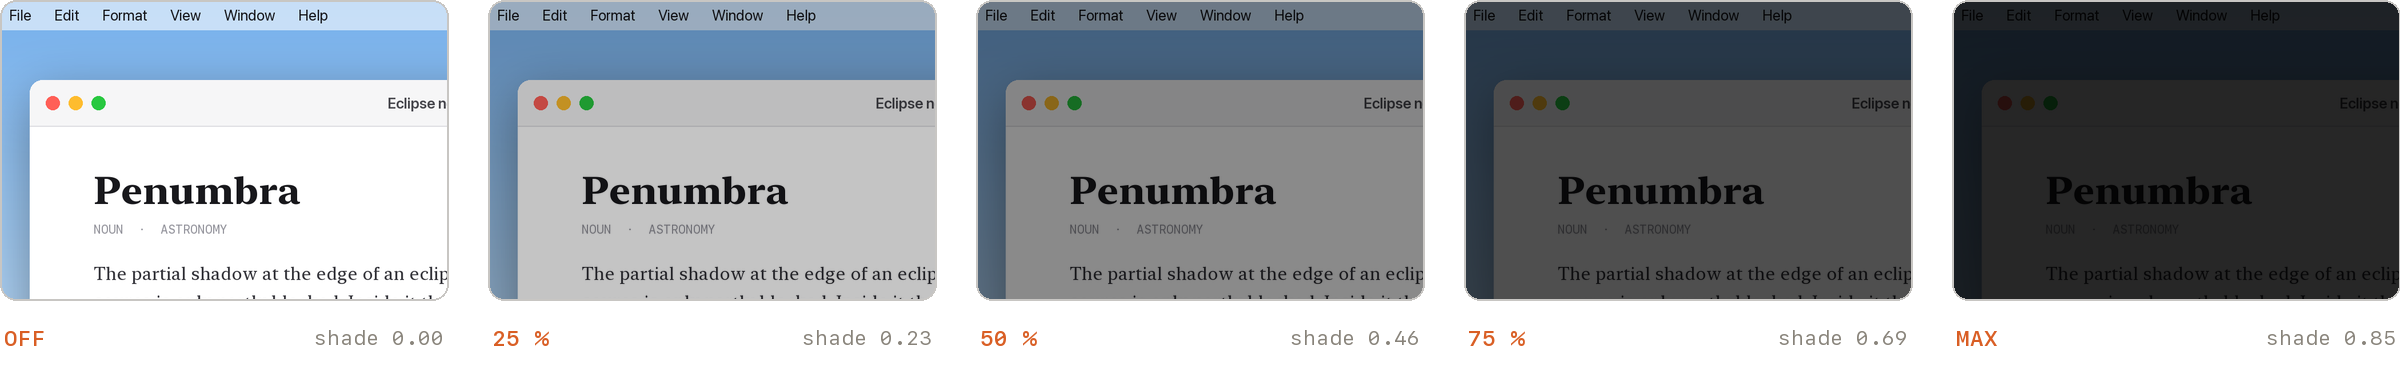
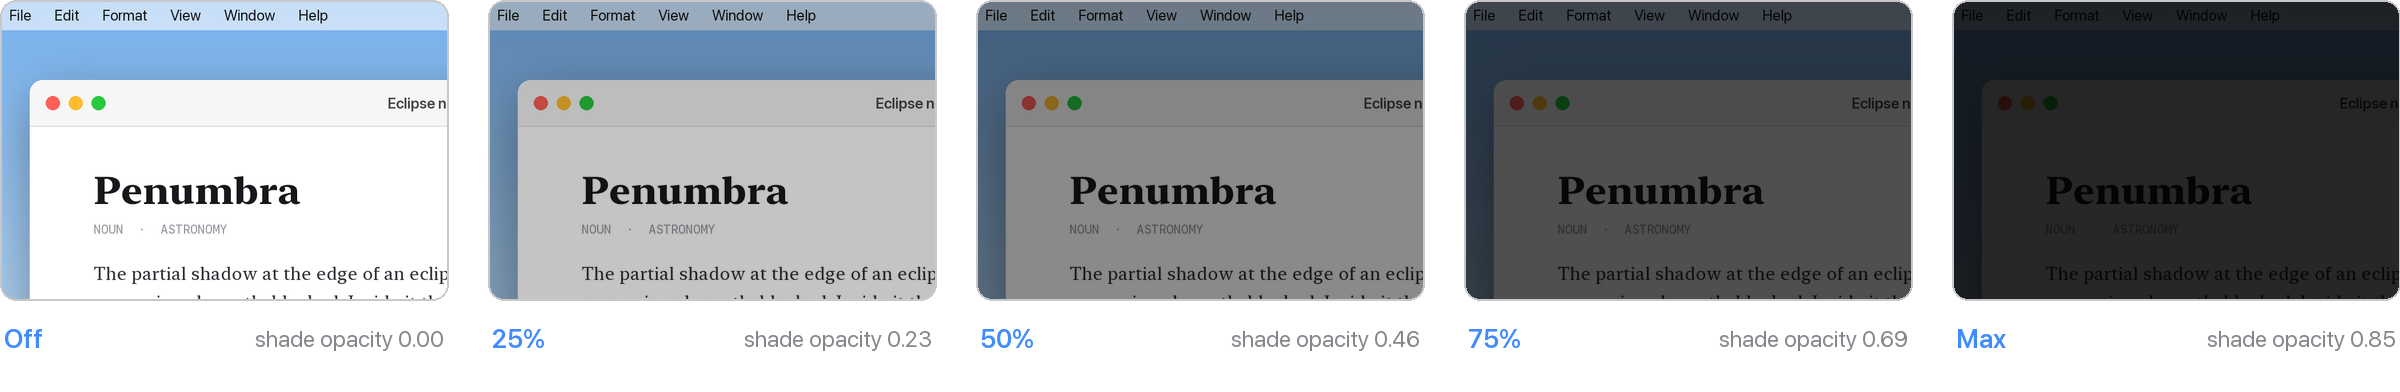
Drop the header band; diagram, labels and social preview in the app's own colours

diff --git a/tools/render_stack.py b/tools/render_stack.py
@@ -4,8 +4,9 @@ render_stack.py - the window-level diagram in the README's "How it works".
 
 Draws the macOS window stack as stacked planes, with the levels as AppKit and
 CoreGraphics define them, and shows where Penumbra's two windows sit in it. One
-light and one dark SVG, chosen by prefers-color-scheme through <picture>. Same
-palette and type as the header band. No script, no web fonts, no external refs.
+light and one dark SVG, chosen by prefers-color-scheme through <picture>, in the
+app's own colours: neutral greys and the system blue of the control window. No
+script, no web fonts, no external refs.
 
 Usage: python3 tools/render_stack.py      (writes docs/stack-{light,dark}.svg)
 """
@@ -13,14 +14,14 @@ Usage: python3 tools/render_stack.py      (writes docs/stack-{light,dark}.svg)
 from pathlib import Path
 
 W, H = 860, 380
-MONO = ('font-family="ui-monospace,SFMono-Regular,SF Mono,Menlo,'
-        'Consolas,monospace"')
+SANS = ('font-family="-apple-system,BlinkMacSystemFont,Segoe UI,Helvetica,'
+        'Arial,sans-serif"')
 
 THEMES = {
-    "light": dict(ink="#191713", muted="#6e6b62", line="#c6c1b2",
-                  faint="#dcd6c8", accent="#d94e12", fill="#f1efe9"),
-    "dark":  dict(ink="#f0ede6", muted="#8f887c", line="#4a443b",
-                  faint="#3d3831", accent="#ff7a3d", fill="#1b1815"),
+    "light": dict(ink="#1d1d1f", muted="#6e6e73", line="#c7c7cc",
+                  accent="#0a6cff", fill="#f5f5f7"),
+    "dark":  dict(ink="#f5f5f7", muted="#98989d", line="#48484a",
+                  accent="#4c9dff", fill="#1c1c1e"),
 }
 
 # bottom to top: (name, level, note, kind)
@@ -37,9 +38,9 @@ LAYERS = [
 X0, PW, SKEW, PH, STEP, BASE = 40, 250, 78, 30, 42, 330
 
 
-def txt(x, y, s, fill, size=10, anchor="start", ls=0.8, weight=None):
+def txt(x, y, s, fill, size=10, anchor="start", ls=0, weight=None):
     w = f' font-weight="{weight}"' if weight else ""
-    return (f'<text x="{x}" y="{y}" {MONO} font-size="{size}" letter-spacing="{ls}" '
+    return (f'<text x="{x}" y="{y}" {SANS} font-size="{size}" letter-spacing="{ls}" '
             f'text-anchor="{anchor}" fill="{fill}"{w}>{s}</text>')
 
 
@@ -59,15 +60,14 @@ def build(theme):
          f'<defs><marker id="c{theme}" viewBox="0 0 8 8" refX="7" refY="4" markerWidth="7" '
          f'markerHeight="7" orient="auto"><path d="M0 1L7 4L0 7z" '
          f'fill="{c["accent"]}"/></marker></defs>']
-    o.append(txt(0, 14, "WINDOW LEVEL, LOW TO HIGH", c["muted"], 9, ls=1.6))
+    o.append(txt(0, 14, "Window level, low to high", c["muted"], 11))
 
     lx = X0 + PW + SKEW + 34                 # label column
     for i, (name, level, note, kind) in enumerate(LAYERS):
         y = BASE - i * STEP
         hot = kind != "sys"
         if kind == "shade":
-            o.append(plane(y, c["accent"], c["ink"] if theme == "light" else "#000000",
-                           0.62, 1.6))
+            o.append(plane(y, c["accent"], "#000000", 0.78, 1.6))
         elif kind == "own":
             o.append(plane(y, c["accent"], c["fill"], 1, 1.4))
         else:
@@ -75,11 +75,11 @@ def build(theme):
         my = y - PH / 2
         o.append(f'<path d="M{X0 + PW + SKEW / 2 + 6} {my}H{lx - 8}" stroke="'
                  f'{c["accent"] if hot else c["line"]}" stroke-width="1"/>')
-        o.append(txt(lx + 86, my - 1, level, c["accent"] if hot else c["ink"], 11,
-                     "end", 0.4, 600))
-        o.append(txt(lx + 100, my - 1, name.upper(), c["accent"] if hot else c["ink"], 10.5,
-                     ls=1.3, weight=600))
-        o.append(txt(lx + 100, my + 13, note, c["muted"], 9.5, ls=0.3))
+        o.append(txt(lx + 86, my - 1, level, c["accent"] if hot else c["ink"], 12,
+                     "end", 0, 600))
+        o.append(txt(lx + 100, my - 1, name[0].upper() + name[1:], c["accent"] if hot else c["ink"],
+                     12, weight=600))
+        o.append(txt(lx + 100, my + 14, note, c["muted"], 10.5))
 
     # a click, falling straight through the shade to the app underneath
     cx = X0 + SKEW / 2 + 84
@@ -88,8 +88,8 @@ def build(theme):
              f'stroke-dasharray="4 3" marker-end="url(#c{theme})"/>')
     o.append(f'<circle cx="{cx}" cy="{shade_y - PH / 2}" r="4.5" fill="{c["fill"]}" '
              f'stroke="{c["accent"]}" stroke-width="1.4"/>')
-    o.append(txt(X0, BASE + 28, "A CLICK FALLS THROUGH THE SHADE (ignoresMouseEvents) "
-                 "AND LANDS ON THE APP BELOW", c["muted"], 9, ls=1.2))
+    o.append(txt(X0, BASE + 28, "A click falls through the shade (ignoresMouseEvents) "
+                 "and lands on the app below.", c["muted"], 11))
     o.append("</svg>")
     return "".join(o)
 

diff --git a/tools/render_demo.py b/tools/render_demo.py
@@ -6,6 +6,7 @@ render_demo.py - the README's product pictures.
   docs/levels.png   the same frame at each preset, side by side
   docs/panel.png    the control window on its own
   docs/screenshot.png  a still of the demo at 75 %
+  docs/social-preview.png  the same still on a 1280x640 card for GitHub
 
 The desktop is an illustration (no real apps, no real wallpaper), but everything
 Penumbra contributes is the real thing: the control window is rendered from the
@@ -236,6 +237,12 @@ def main():
     still = frame(base, panels, 75, 0.75 * MAX_ALPHA).convert("RGB")
     still.resize((1600, 1600 * H // W), Image.LANCZOS).save(DOCS / "screenshot.png", optimize=True)
 
+    card = Image.new("RGB", (1280, 640), (12, 16, 30))       # 1280x640 for GitHub
+    shot = still.resize((960, 960 * H // W), Image.LANCZOS)
+    m = Image.new("L", shot.size, 0)
+    ImageDraw.Draw(m).rounded_rectangle([0, 0, shot.width - 1, shot.height - 1], radius=14, fill=255)
+    card.paste(shot, ((1280 - shot.width) // 2, (640 - shot.height) // 2), m)
+    card.save(DOCS / "social-preview.png", optimize=True)
     panels[50].save(DOCS / "panel.png", optimize=True)     # the control window on its own
 
     # ---- levels.png --------------------------------------------------------
@@ -252,11 +259,11 @@ def main():
         ImageDraw.Draw(m).rounded_rectangle([0, 0, t.width - 1, t.height - 1], radius=8 * SS, fill=255)
         x = i * (tw + gap)
         out.paste(t, tuple(p(x, 0)), m)
-        d.rounded_rectangle(p(x, 0, x + tw, th), radius=8 * SS, outline=(128, 124, 116, 110), width=SS)
-        d.text(p(x + 2, th + 12), name.upper() if not name.isdigit() else name + " %",
-               font=font(11, "Semibold", MONO), fill=(217, 94, 36))
-        d.text(p(x + tw - 2, th + 12), "shade %.2f" % a, font=font(10.5, "Regular", MONO),
-               fill=(136, 131, 122), anchor="ra")
+        d.rounded_rectangle(p(x, 0, x + tw, th), radius=8 * SS, outline=(128, 128, 134, 110), width=SS)
+        d.text(p(x + 2, th + 11), name if not name.isdigit() else name + "%",
+               font=font(13, "Semibold"), fill=(64, 140, 255))
+        d.text(p(x + tw - 2, th + 12), "shade opacity %.2f" % a, font=font(11.5, "Regular"),
+               fill=(134, 134, 140), anchor="ra")
     out.save(DOCS / "levels.png", optimize=True)
 
     for f in ("demo.gif", "screenshot.png", "panel.png", "levels.png"):

diff --git a/README.md b/README.md
@@ -1,8 +1,3 @@
-<picture>
-  <source media="(prefers-color-scheme: dark)" srcset="docs/header-dark.svg">
-  <img alt="MacOS-Screen-Dimmer: darker than the hardware minimum. Python, PyObjC and AppKit, MIT. A brightness ramp showing the range below the backlight's hardware minimum that Penumbra reaches in software." src="docs/header-light.svg" width="100%">
-</picture>
-
 <h1 align="center">
   <img src="docs/icon.png" width="112" alt="Penumbra app icon: a sphere half covered by a soft shadow"><br>
   Penumbra
